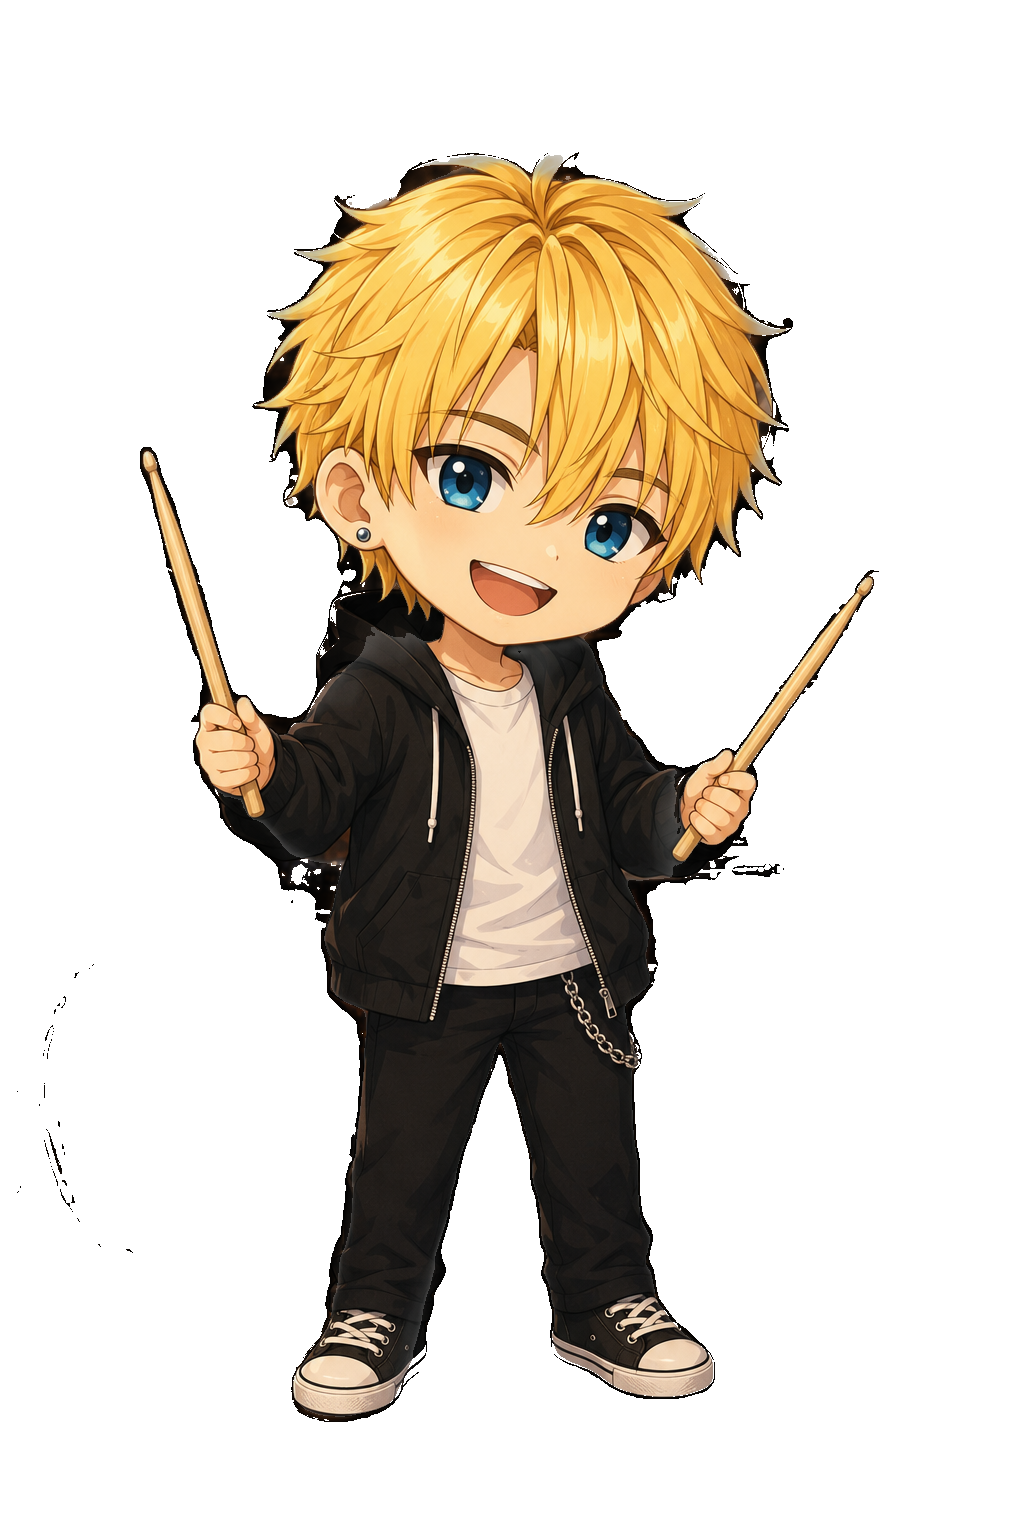
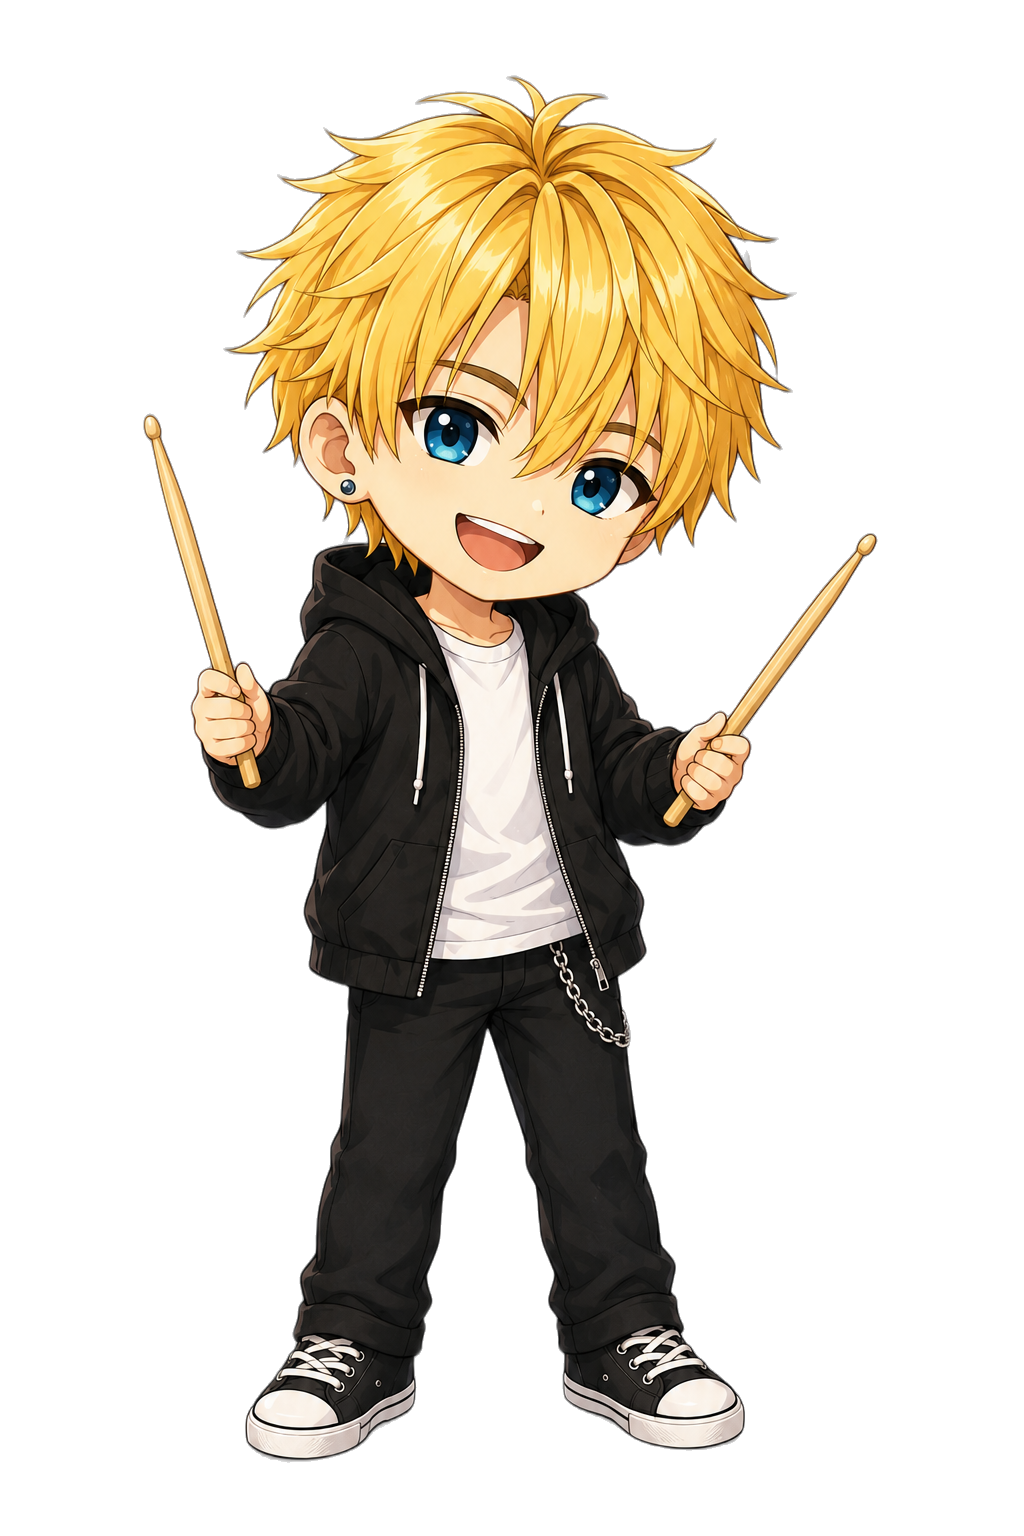
feat: キャラポップアップに名前入力・SWEETs連動・ハヤテ画像更新
- 初回訪問：ヒナタが9種ランダムセリフで名前を聞く
- 入力後：「ありがとう、〇〇さん」→ localStorage保存 → フェード
- 再訪：3キャラ専用の名前入りセリフでランダム表示（5秒で自動消去）
- SWEETsナビクリック：ヒント系セリフ表示 → 2.2秒後ページ遷移
- SWEETS_CODE_UPDATED フラグでコード更新日のみ専用行を追加
- chibi_hayate.png を白背景ソース・isnet-anime処理版に更新

Changed region(s): [[0.125, 0.0312, 0.875, 0.9688], [0.5312, 0.75, 0.75, 0.9688], [0.5, 0.7188, 0.5312, 0.7812]]

diff --git a/index.html b/index.html
@@ -1288,12 +1288,38 @@
   }
   #chara-close:hover { color: #94a3b8; }
   #chara-img img { width: 90px; display: block; }
+  #chara-input-wrap {
+    margin-top: 9px; display: flex; gap: 5px; align-items: center;
+  }
+  #chara-input {
+    flex: 1; min-width: 0;
+    background: rgba(255,255,255,0.07);
+    border: 1px solid rgba(255,255,255,0.18);
+    border-radius: 6px; padding: 5px 8px;
+    color: #e2e8f0; font-size: 12px;
+    font-family: 'Noto Serif JP', serif;
+    outline: none;
+  }
+  #chara-input::placeholder { color: #475569; }
+  #chara-input:focus { border-color: rgba(147,197,253,0.4); }
+  #chara-submit {
+    background: rgba(147,197,253,0.12);
+    border: 1px solid rgba(147,197,253,0.28);
+    border-radius: 6px; padding: 5px 9px;
+    color: #93c5fd; font-size: 13px; cursor: pointer;
+    line-height: 1; flex-shrink: 0;
+  }
+  #chara-submit:hover { background: rgba(147,197,253,0.22); }
 </style>
 
 <div id="chara-popup">
   <div id="chara-bubble">
     <p id="chara-name"></p>
     <p id="chara-line"></p>
+    <div id="chara-input-wrap" style="display:none">
+      <input id="chara-input" type="text" maxlength="12" placeholder="なまえ">
+      <button id="chara-submit">→</button>
+    </div>
     <button id="chara-close">✕</button>
   </div>
   <div id="chara-img"><img id="chara-face" src="" alt=""></div>
@@ -1303,40 +1329,172 @@
   (function() {
     if (sessionStorage.getItem('charaShown')) return;
 
+    var storedName = localStorage.getItem('sf_visitor_name');
+
     var chars = [
       { name: 'HINATA', img: 'plofile/chibi_hinata.png', color: '#93c5fd' },
       { name: 'KOUTA',  img: 'plofile/chibi_kouta.png',  color: '#fca5a5' },
       { name: 'HAYATE', img: 'plofile/chibi_hayate.png', color: '#fde68a' }
     ];
-    var lines = [
-      '来てくれてありがとう',
-      '今日は、少しだけ聴いていく？',
-      '無理に急がなくていいよ',
-      'ここから、物語に入れる',
-      '音と物語、どっちから？',
-      '静かな場所に来たね'
+
+    var popup   = document.getElementById('chara-popup');
+    var nameEl  = document.getElementById('chara-name');
+    var lineEl  = document.getElementById('chara-line');
+    var faceEl  = document.getElementById('chara-face');
+    var inputWrap = document.getElementById('chara-input-wrap');
+    var inputEl = document.getElementById('chara-input');
+
+    function closePopup() {
+      popup.style.opacity = '0';
+      popup.style.transform = 'translateY(24px)';
+      setTimeout(function() { popup.style.display = 'none'; }, 600);
+    }
+    document.getElementById('chara-close').addEventListener('click', closePopup);
+
+    var askLines = [
+      '名前、聞いてもいい？',
+      '呼び方だけ、教えて',
+      '無理なら、そのままでもいいけど',
+      'ここでは、なんて呼ばれてる？',
+      '……名前、残していく？',
+      '君の名前、知りたい',
+      'あとで呼ぶかもしれないから',
+      'よかったら、名前',
+      '最初に、それだけ聞かせて'
     ];
 
-    var c = chars[Math.floor(Math.random() * chars.length)];
-    var l = lines[Math.floor(Math.random() * lines.length)];
+    var charLines = {
+      HINATA: function(n) { return [
+        '……' + n + 'さん、来たんだ',
+        '今日は少し静かだね',
+        'また来てくれてありがとう',
+        '続きを置いておく',
+        '夜の曲、増えてる'
+      ]; },
+      KOUTA: function(n) { return [
+        n + 'さん、甘いもの好き？',
+        '無理してない？',
+        '今日はゆっくり見てけば',
+        '新しい曲、追加されてる',
+        '座ってく？'
+      ]; },
+      HAYATE: function(n) { return [
+        'お、' + n + 'さん！',
+        'また来たな',
+        '今日はどこ見る？',
+        'ちゃんと寝てる？',
+        'なんか聴いてく？'
+      ]; }
+    };
 
-    document.getElementById('chara-name').textContent = c.name;
-    document.getElementById('chara-name').style.color = c.color;
-    document.getElementById('chara-line').textContent = l;
-    document.getElementById('chara-face').src = c.img;
-    document.getElementById('chara-face').alt = c.name;
+    if (!storedName) {
+      // 初回：ヒナタがランダムな一言で名前を聞く
+      nameEl.textContent = 'HINATA';
+      nameEl.style.color = '#93c5fd';
+      lineEl.textContent = askLines[Math.floor(Math.random() * askLines.length)];
+      faceEl.src = 'plofile/chibi_hinata.png';
+      faceEl.alt = 'HINATA';
+      inputWrap.style.display = 'flex';
 
-    setTimeout(function() {
-      document.getElementById('chara-popup').classList.add('show');
-      sessionStorage.setItem('charaShown', '1');
-    }, 2500);
+      setTimeout(function() {
+        popup.classList.add('show');
+        sessionStorage.setItem('charaShown', '1');
+        inputEl.focus();
+      }, 2500);
 
-    document.getElementById('chara-close').addEventListener('click', function() {
-      var el = document.getElementById('chara-popup');
-      el.style.opacity = '0';
-      el.style.transform = 'translateY(24px)';
-      setTimeout(function() { el.style.display = 'none'; }, 600);
-    });
+      function submitName() {
+        var n = inputEl.value.trim();
+        if (!n) return;
+        localStorage.setItem('sf_visitor_name', n);
+        inputWrap.style.display = 'none';
+        lineEl.textContent = 'ありがとう、' + n + 'さん';
+        setTimeout(closePopup, 2800);
+      }
+      document.getElementById('chara-submit').addEventListener('click', submitName);
+      inputEl.addEventListener('keydown', function(e) {
+        if (e.key === 'Enter') submitName();
+      });
+
+    } else {
+      // 再訪：3人それぞれのセリフから名前入りでランダム表示
+      var c = chars[Math.floor(Math.random() * chars.length)];
+      var pool = charLines[c.name](storedName);
+      var l = pool[Math.floor(Math.random() * pool.length)];
+
+      nameEl.textContent = c.name;
+      nameEl.style.color = c.color;
+      lineEl.textContent = l;
+      faceEl.src = c.img;
+      faceEl.alt = c.name;
+
+      setTimeout(function() {
+        popup.classList.add('show');
+        sessionStorage.setItem('charaShown', '1');
+        // 役割終わったら自動で消える
+        setTimeout(closePopup, 5000);
+      }, 2500);
+    }
+    // ── SWEETs ナビクリック時ポップアップ ──────────────────────
+    var SWEETS_CODE_UPDATED = false; // ← コード更新日だけ true にする
+
+    var sweetsLines = [
+      'SWEETsCode、もう見つけた？',
+      'ヒント、Instagramに落ちてるかも',
+      '甘いもの、ちゃんと確認した？',
+      'SWEETs ROOM、開いた？',
+      'まだ秘密、残ってるよ',
+      '気づく人は、ちゃんと気づくらしい',
+      'コード、意外と見逃される',
+      'リールの最後、見た？',
+      'たまにヒント混ざってる',
+      '全部見つけなくても大丈夫だけど',
+      '隠してるつもり、あんまりない',
+      '今日のヒント、結構分かりやすい',
+      '甘いだけじゃ終わらないけど',
+      'たぶん、もう気づいてるよね',
+      '……入力、試してみる？'
+    ];
+    if (SWEETS_CODE_UPDATED) {
+      sweetsLines.push('今日はコード、更新されてるらしい');
+    }
+
+    var sweetsLink = document.querySelector('a.nav-sweets');
+    if (sweetsLink) {
+      sweetsLink.addEventListener('click', function(e) {
+        e.preventDefault();
+        var dest = this.href;
+        var sc = chars[Math.floor(Math.random() * chars.length)];
+        var sl = sweetsLines[Math.floor(Math.random() * sweetsLines.length)];
+        popup.style.display = '';
+        popup.style.opacity = '0';
+        popup.style.transform = 'translateY(24px)';
+        nameEl.textContent = sc.name;
+        nameEl.style.color = sc.color;
+        lineEl.textContent = sl;
+        inputWrap.style.display = 'none';
+        faceEl.src = sc.img;
+        faceEl.alt = sc.name;
+        requestAnimationFrame(function() {
+          requestAnimationFrame(function() {
+            popup.style.transition = 'opacity 0.5s ease, transform 0.5s ease';
+            popup.style.opacity = '1';
+            popup.style.transform = 'translateY(0)';
+          });
+        });
+        var navigated = false;
+        function goSweets() {
+          if (navigated) return;
+          navigated = true;
+          window.location.href = dest;
+        }
+        var navTimer = setTimeout(goSweets, 2200);
+        document.getElementById('chara-close').addEventListener('click', function onSweetsClose() {
+          clearTimeout(navTimer);
+          document.getElementById('chara-close').removeEventListener('click', onSweetsClose);
+          goSweets();
+        }, { once: true });
+      });
+    }
   })();
 </script>
 
